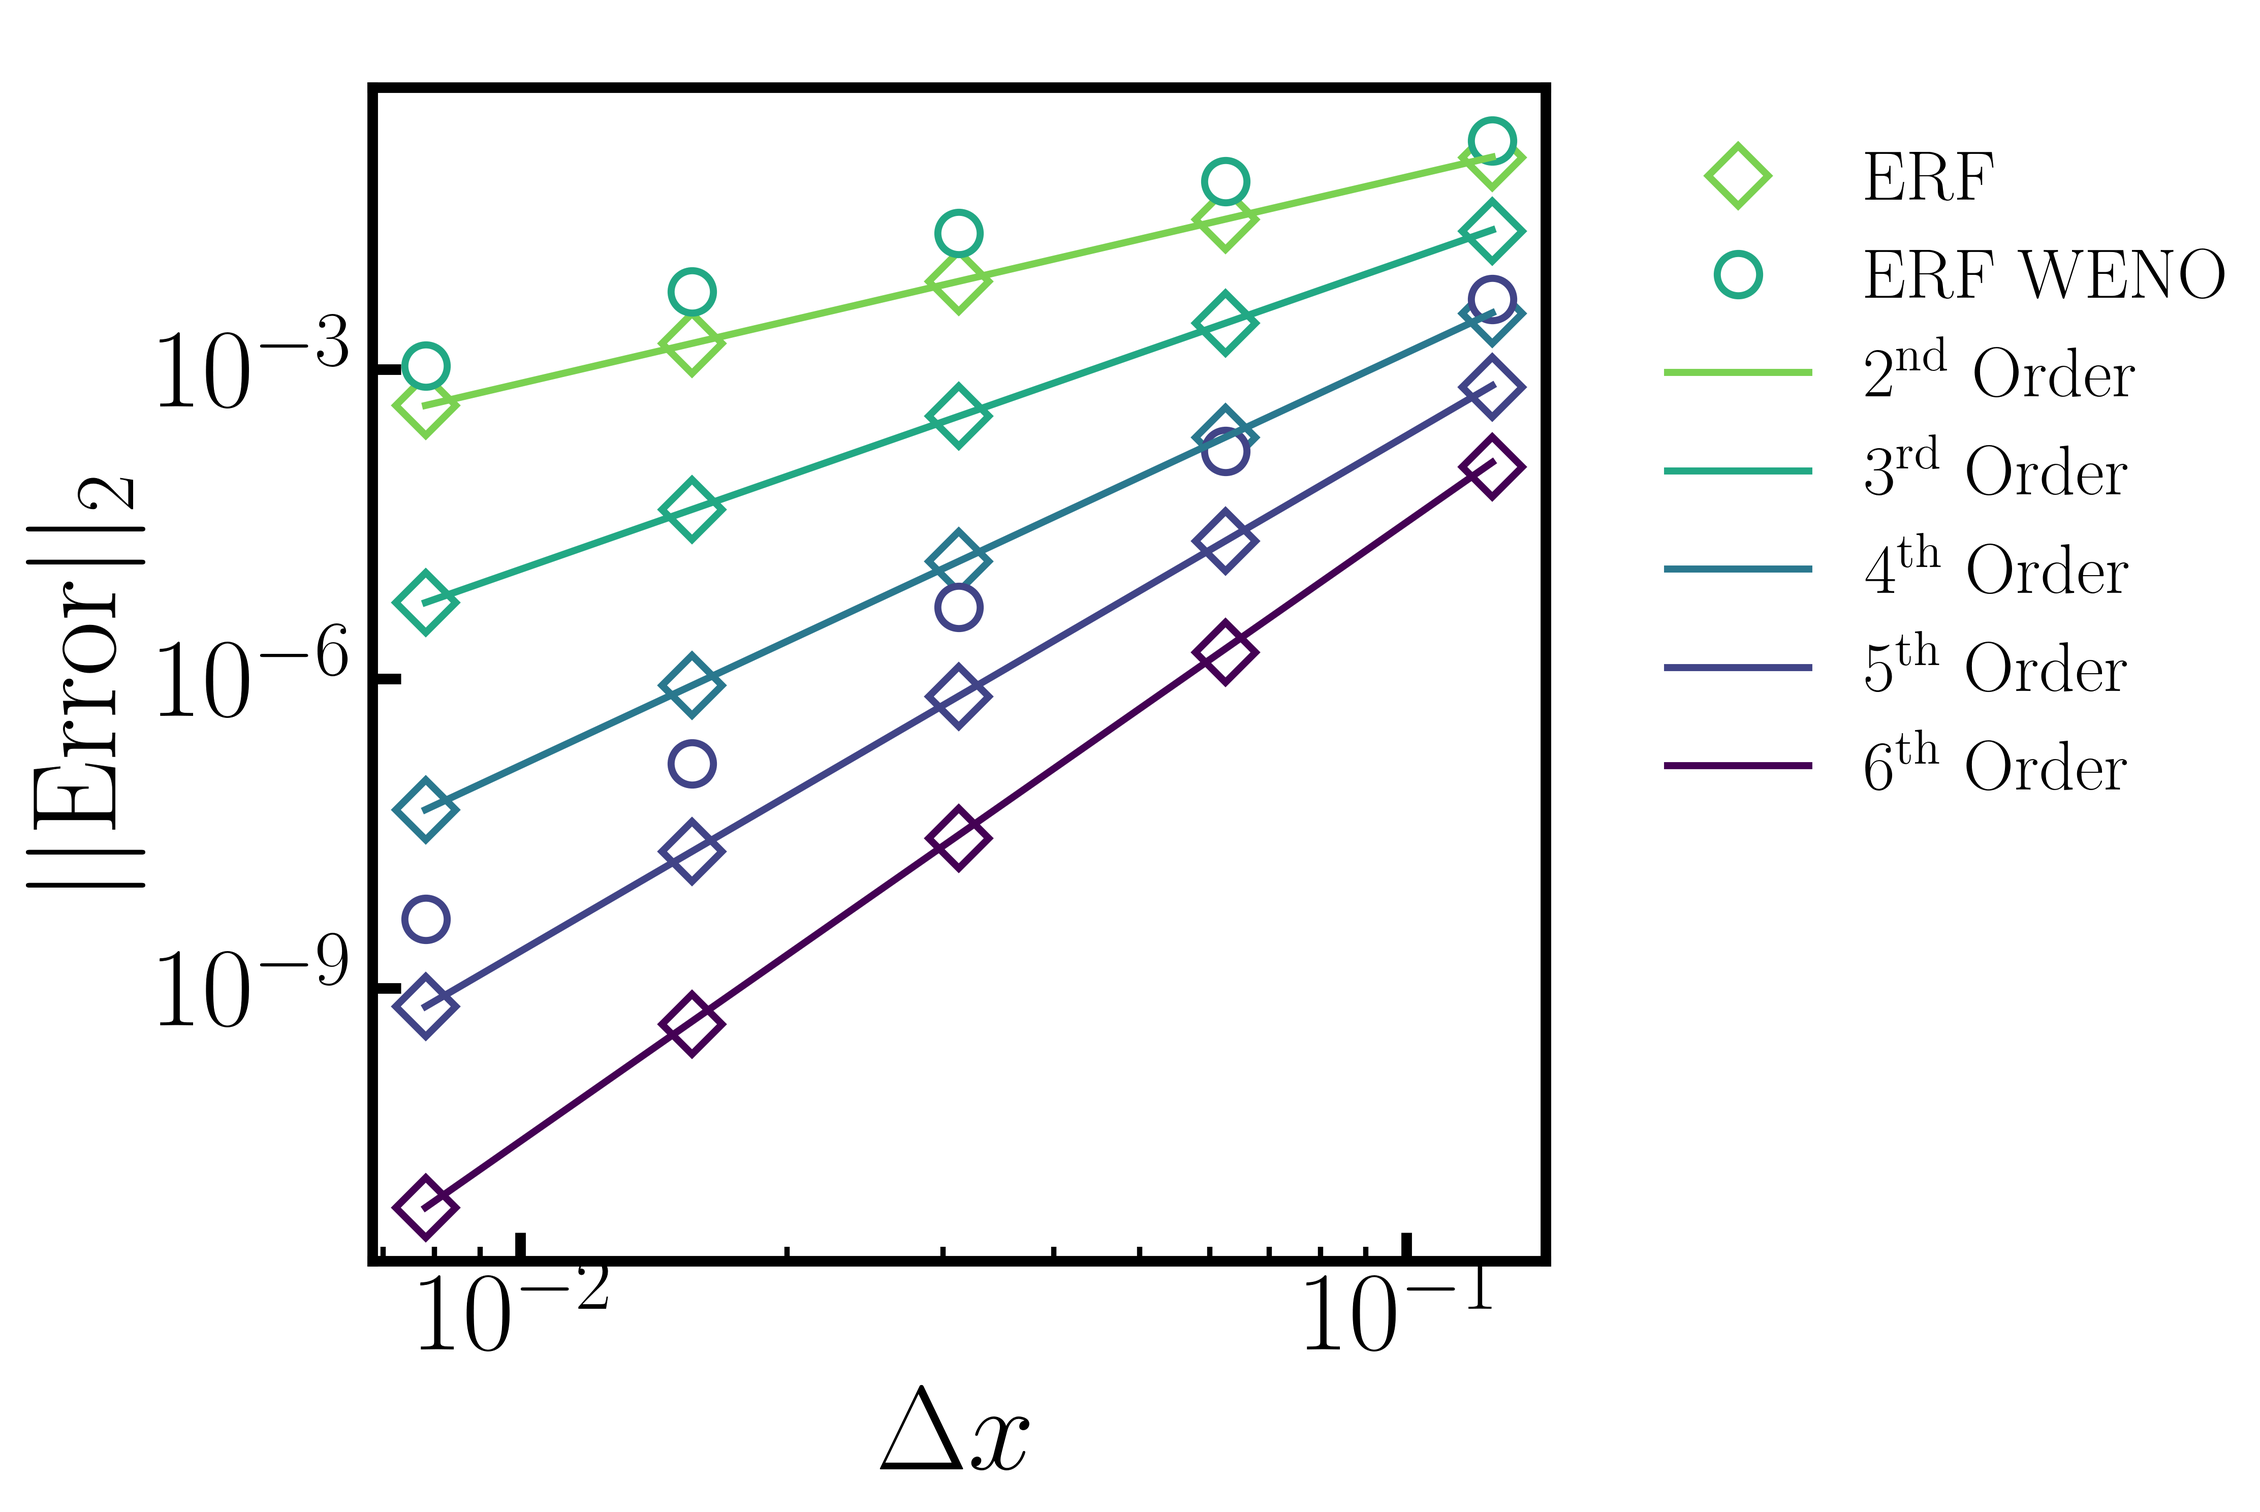
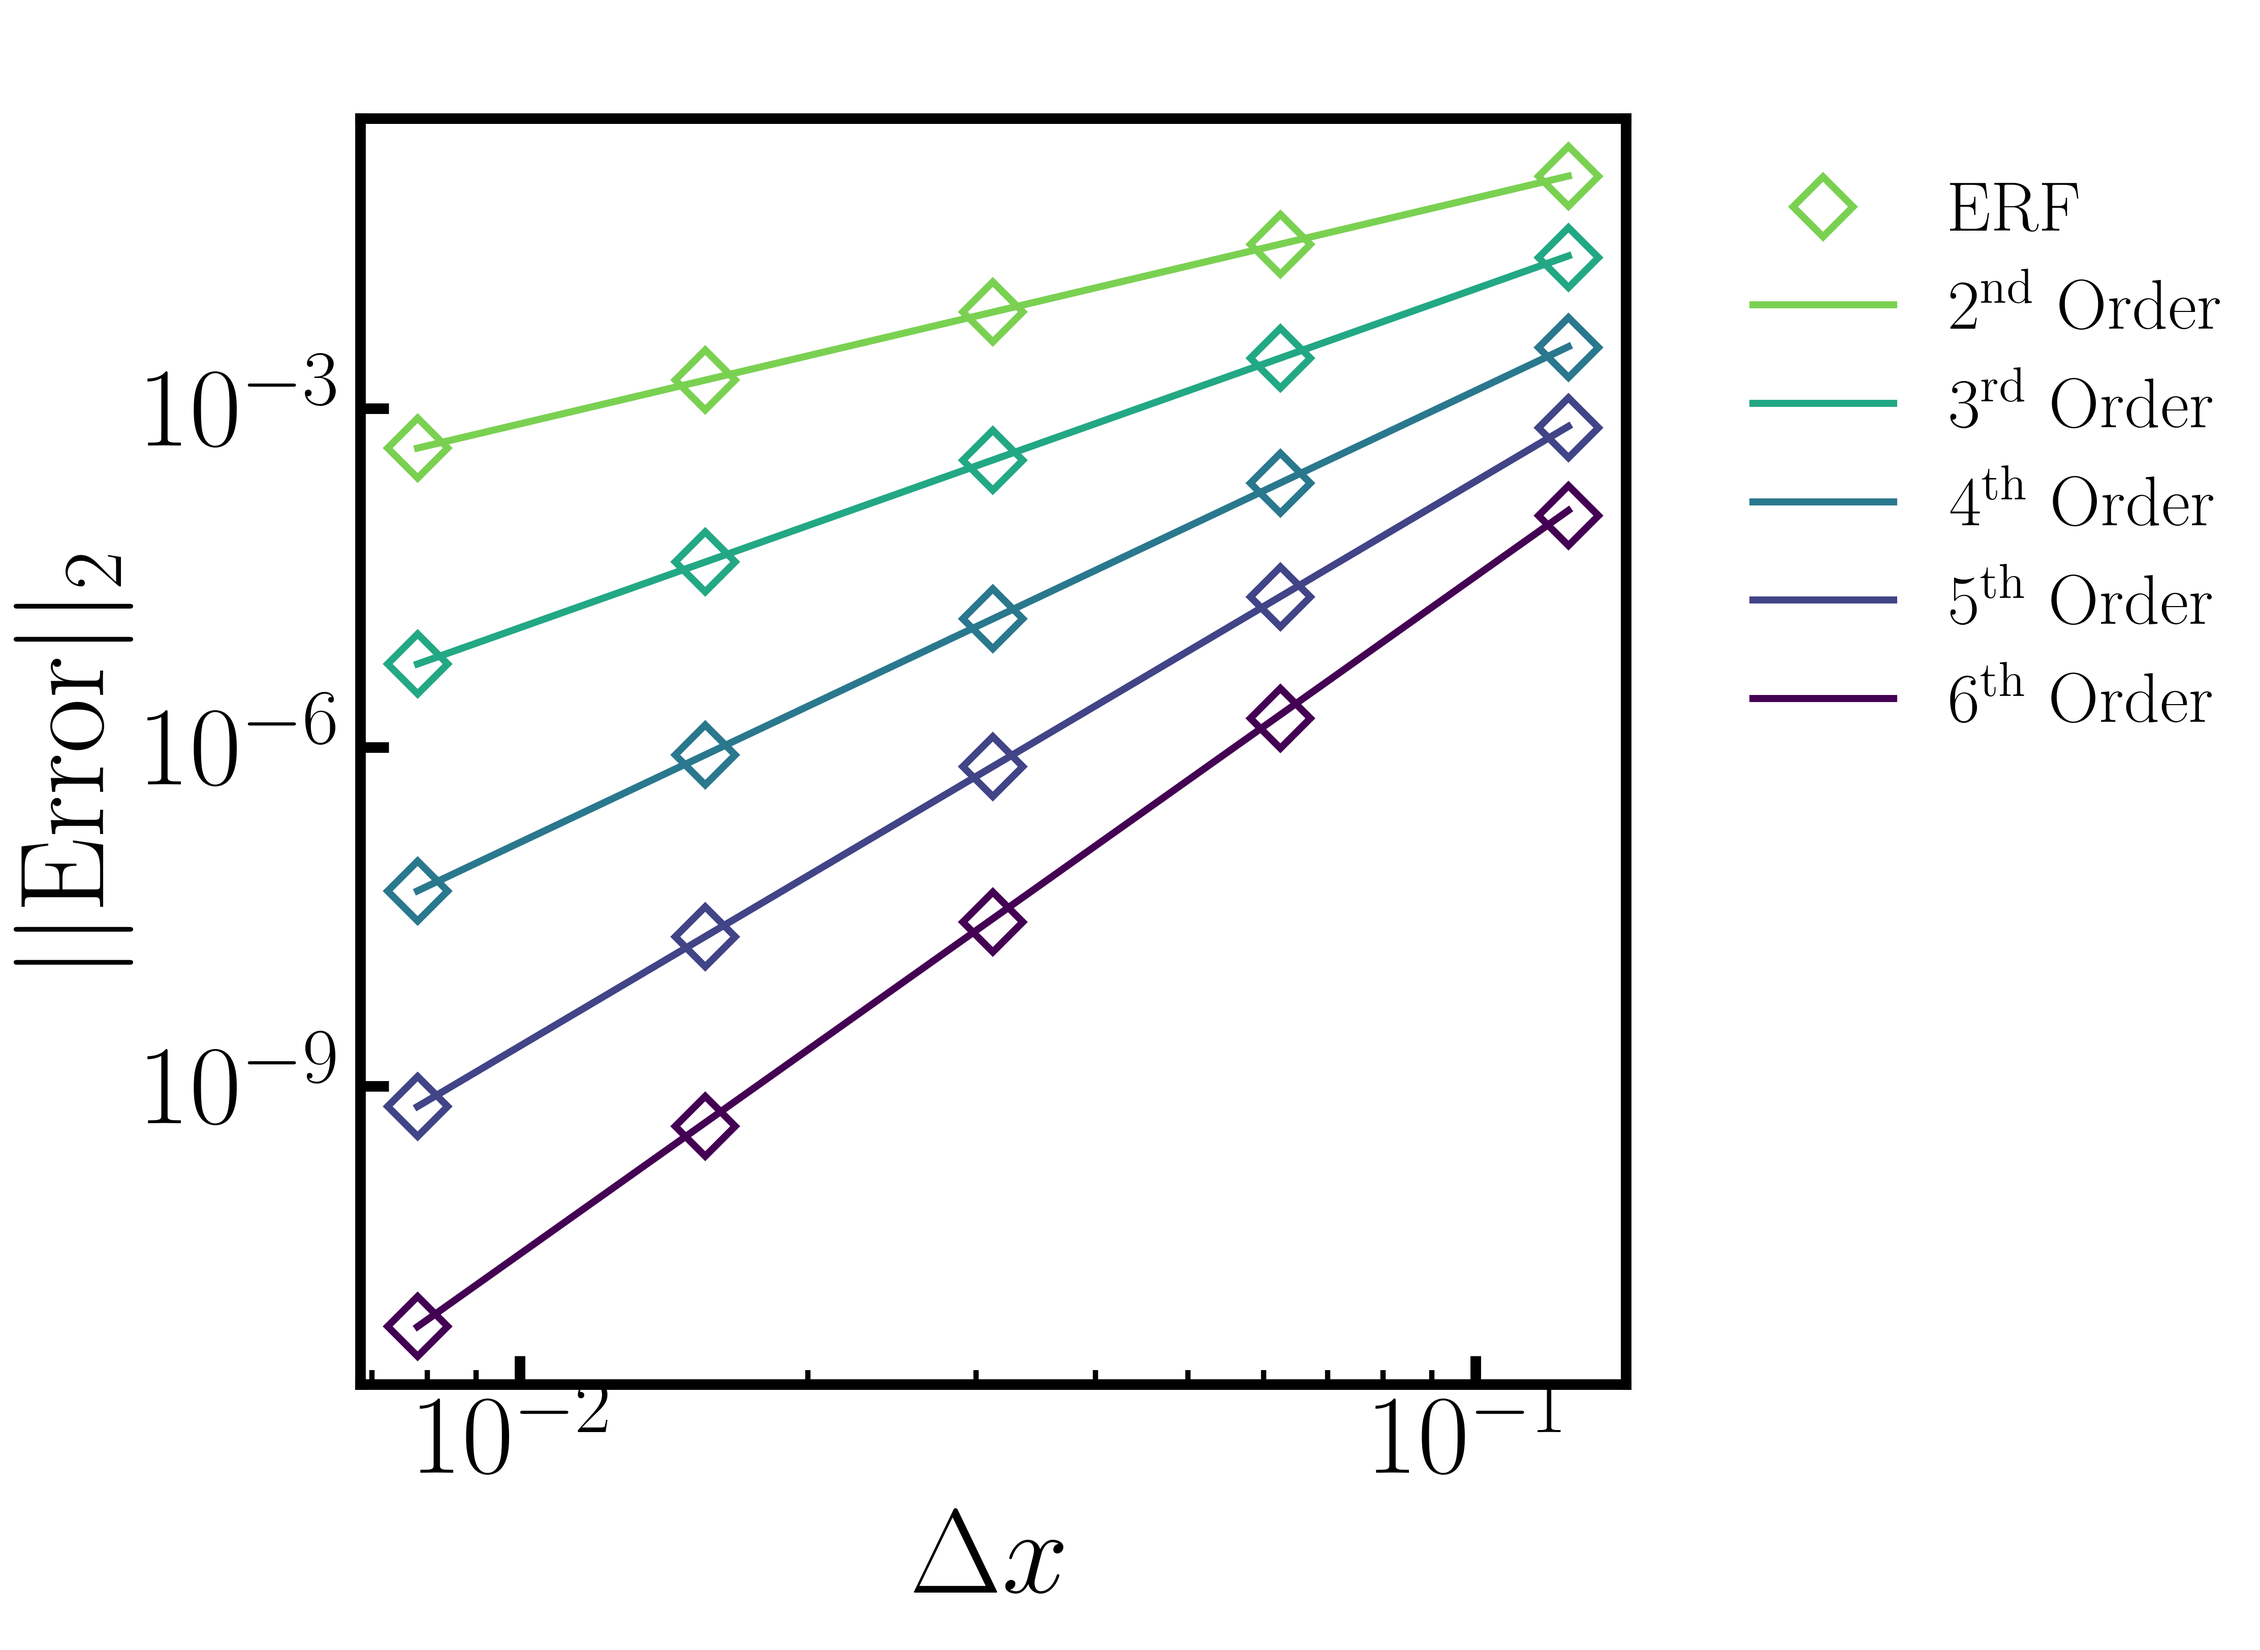
Split spatial convergence studies and update figures. (#1154)

diff --git a/Docs/sphinx_doc/Verification.rst b/Docs/sphinx_doc/Verification.rst
@@ -22,27 +22,40 @@ second through sixth order, including the WENO 3rd and 5th order stencils.  In a
 the time step was held fixed at :math:`\Delta t = 0.0000078125` to ensure that the spatial error dominates
 the temporal error.
 
-The second study, shown on the right below, tests the temporal accuracy by first setting :math:`\Delta t = 0.0005`
+.. |aconv| image:: figures/conv_plot_spatial.png
+           :width: 300
+
+.. |bconv| image:: figures/conv_plot_spatial_WENO.png
+           :width: 300
+
+.. _fig:convergence_spatial
+
+.. table:: Convergence studies of spatial error
+
+   +-----------------------------------------------------+------------------------------------------------------+
+   |                     |aconv|                         |                      |bconv|                         |
+   +-----------------------------------------------------+------------------------------------------------------+
+   |  Spatial convergence study (centered/upwind)        |  Temporal convergence study (WENO)                   |
+   +-----------------------------------------------------+------------------------------------------------------+
+
+The second study tests the temporal accuracy by first setting :math:`\Delta t = 0.0005`
 and :math:`\Delta x = 1/8`, then reducing both :math:`\Delta t` and :math:`\Delta x` by a factor of two, keeping
 the ratio of :math:`\Delta t` to :math:`\Delta x` constant.   These tests were run with the 6th order accurate
 spatial stencil so that the temporal error dominated the spatial error.  Here we recover the expected 3rd order
 accuracy of the RK3 scheme.
 
-.. |aconv| image:: figures/conv_plot_spatial.png
+.. |tconv| image:: figures/conv_plot_temporal.png
            :width: 300
 
-.. |bconv| image:: figures/conv_plot_temporal.png
-           :width: 300
+.. _fig:convergence_temporal
 
-.. _fig:convergence
+.. table:: Convergence studies of temporal error
 
-.. table:: Convergence studies of spatial and temporal error
-
-   +-----------------------------------------------------+------------------------------------------------------+
-   |                     |aconv|                         |                      |bconv|                         |
-   +-----------------------------------------------------+------------------------------------------------------+
-   |  Spatial convergence study                          |  Temporal convergence study                          |
-   +-----------------------------------------------------+------------------------------------------------------+
+   +-----------------------------------------------------+
+   |                     |tconv|                         |
+   +-----------------------------------------------------+
+   |  Temporal convergence study                         |
+   +-----------------------------------------------------+
 
 
 Nonlinear Density Current
